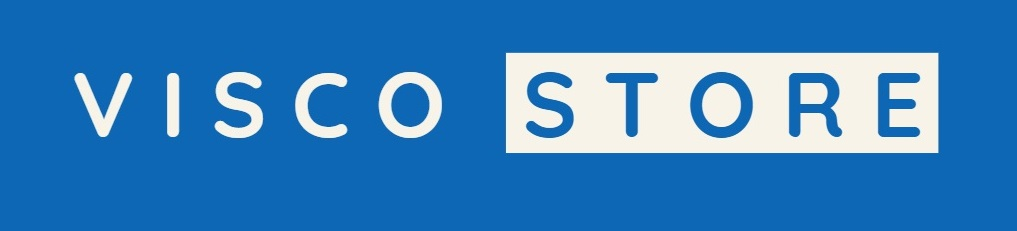
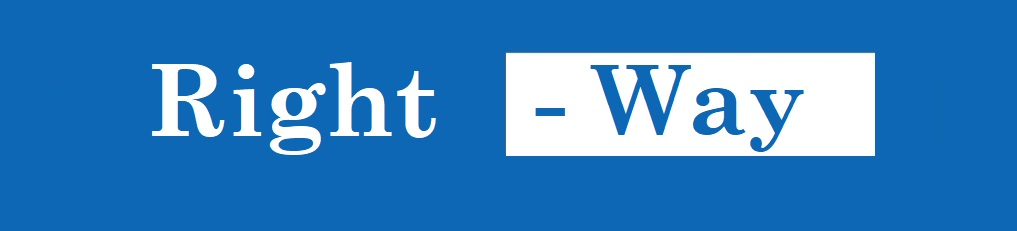
change from ecommerce to coding site

Changed region(s): [[0.4877, 0.2121, 0.9449, 0.697], [0.061, 0.2727, 0.4572, 0.697]]

diff --git a/src/Home.js b/src/Home.js
@@ -1,30 +1,30 @@
 import React from "react";
 import "./Home.css";
 import Product from "./Product";
+import banner from "./images/home_banner.jpg";
+import java from "./images/java-book.png";
+import CTCIB from "./images/ctci.png";
+import Visualization from "./Visualization";
 
 function Home() {
   return (
     <div className="home">
       <div className="home__container">
-        <img
-          className="home__image"
-          src="https://images-eu.ssl-images-amazon.com/images/G/02/digital/video/merch2016/Hero/Covid19/Generic/GWBleedingHero_ENG_COVIDUPDATE__XSite_1500x600_PV_en-GB._CB428684220_.jpg"
-          alt=""
-        />
+        <img className="home__image" src={banner} alt="" />
 
         <div className="home__row">
           <Product
             id="123211341"
             title="the lean startup"
             price={29.99}
-            image="https://images-na.ssl-images-amazon.com/images/I/51Zymoq7UnL._AC_SY400_.jpg"
+            image={java}
             rating={4}
           />
           <Product
             id="123211341"
             title="the lean startup"
             price={29.99}
-            image="https://images-na.ssl-images-amazon.com/images/I/51Zymoq7UnL._AC_SY400_.jpg"
+            image={CTCIB}
             rating={4}
           />
           <Product
@@ -43,10 +43,12 @@ function Home() {
           />
         </div>
 
+        <Visualization />
+
         <div className="home__row">
           <Product
             id="4903850"
-            title="Samsung LC49RG90SSUXEN 49' Curved LED Gaming Monitor"
+            title="Samsung 49' Curved LED Gaming Monitor"
             price={199.99}
             rating={3}
             image="https://images-na.ssl-images-amazon.com/images/I/71Swqqe7XAL._AC_SX466_.jpg"
@@ -60,7 +62,7 @@ function Home() {
           />
           <Product
             id="4903850"
-            title="Samsung LC49RG90SSUXEN 49' Curved LED Gaming Monitor"
+            title="Samsung 49' Curved LED Gaming Monitor"
             price={199.99}
             rating={3}
             image="https://images-na.ssl-images-amazon.com/images/I/71Swqqe7XAL._AC_SX466_.jpg"
@@ -84,35 +86,35 @@ function Home() {
         <div className="home__row">
           <Product
             id="90829332"
-            title="Samsung LC49RG90SSUXEN 49' Curved LED Gaming Monitor - Super Ultra Wide Dual WQHD 5120 x 1440"
+            title="Samsung 49' Curved LED Gaming Monitor"
             price={1094.98}
             rating={3}
             image="https://images-na.ssl-images-amazon.com/images/I/6125mFrzr6L._AC_SX355_.jpg"
           />
           <Product
             id="90829332"
-            title="Samsung LC49RG90SSUXEN 49' Curved LED Gaming Monitor - Super Ultra Wide Dual WQHD 5120 x 1440"
+            title="Samsung 49' Curved LED Gaming Monitor"
             price={1094.98}
             rating={3}
             image="https://images-na.ssl-images-amazon.com/images/I/6125mFrzr6L._AC_SX355_.jpg"
           />
           <Product
             id="90829332"
-            title="Samsung LC49RG90SSUXEN 49' Curved LED Gaming Monitor - Super Ultra Wide Dual WQHD 5120 x 1440"
+            title="Samsung 49' Curved LED Gaming Monitor"
             price={1094.98}
             rating={3}
             image="https://images-na.ssl-images-amazon.com/images/I/6125mFrzr6L._AC_SX355_.jpg"
           />
           <Product
             id="90829332"
-            title="Samsung LC49RG90SSUXEN 49' Curved LED Gaming Monitor - Super Ultra Wide Dual WQHD 5120 x 1440"
+            title="Samsung 49' Curved LED Gaming Monitor"
             price={1094.98}
             rating={3}
             image="https://images-na.ssl-images-amazon.com/images/I/6125mFrzr6L._AC_SX355_.jpg"
           />
           <Product
             id="90829332"
-            title="Samsung LC49RG90SSUXEN 49' Curved LED Gaming Monitor - Super Ultra Wide Dual WQHD 5120 x 1440"
+            title="Samsung 49' Curved LED Gaming Monitor"
             price={1094.98}
             rating={3}
             image="https://images-na.ssl-images-amazon.com/images/I/6125mFrzr6L._AC_SX355_.jpg"

diff --git a/src/Product2.js b/src/Product2.js
@@ -1,8 +1,8 @@
 import React from "react";
-import "./Product.css";
+import "./Product2.css";
 import { useStateValue } from "./StateProvider";
 
-function Product({ id, title, image, price, rating }) {
+function Product2({ id, title, image, price, rating }) {
   const [{ basket }, dispatch] = useStateValue();
 
   const addToInterested = () => {
@@ -11,29 +11,16 @@ function Product({ id, title, image, price, rating }) {
     dispatch({
       type: "ADD_TO_INTERESTED",
       item: {
-        id: id,
         title: title,
         image: image,
-        price: price,
         rating: rating,
       },
     });
   };
   return (
-    <div className="product">
-      <div className="product__info">
+    <div className="product2">
+      <div className="product2__info">
         <p>{title}</p>
-        <p className="product__price">
-          <small>$</small>
-          <strong>{price}</strong>
-        </p>
-        <div className="product__rating">
-          {Array(rating)
-            .fill()
-            .map((_, i) => (
-              <p>⭐</p>
-            ))}
-        </div>
       </div>
       <img src={image} alt="" />
       <button onClick={addToInterested}>Add to Interested</button>
@@ -41,4 +28,4 @@ function Product({ id, title, image, price, rating }) {
   );
 }
 
-export default Product;
+export default Product2;

diff --git a/src/Header.js b/src/Header.js
@@ -1,7 +1,7 @@
 import React from "react";
 import "./Header.css";
 import SearchIcon from "@material-ui/icons/Search";
-import ShoppingBasketIcon from "@material-ui/icons/ShoppingBasket";
+import InterestsIcon from "@material-ui/icons/Favorite";
 import { Link } from "react-router-dom";
 import { useStateValue } from "./StateProvider";
 import { auth } from "./firebase";
@@ -42,13 +42,13 @@ function Header() {
           <span className="header__optionLineTwo">& Orders</span>
         </div>
         <div className="header__option">
-          <span className="header__optionLineOne">Your</span>
-          <span className="header__optionLineTwo">Prime</span>
+          <span className="header__optionLineOne">Helpful</span>
+          <span className="header__optionLineTwo">Blogs</span>
         </div>
 
         <Link to="/checkout">
           <div className="header__optionBasket">
-            <ShoppingBasketIcon />
+            <InterestsIcon />
             <span
               className="header__optionLineTwo
             header__basketCount"

diff --git a/src/Checkout.js b/src/Checkout.js
@@ -3,20 +3,17 @@ import "./Checkout.css";
 import Subtotal from "./Subtotal";
 import { useStateValue } from "./StateProvider";
 import CheckoutProduct from "./CheckoutProduct";
+import image from "./images/1.jpg";
 
 function Checkout() {
   const [{ basket, user }, dispatch] = useStateValue();
   return (
     <div className="checkout">
       <div className="checkout__left">
-        <img
-          className="checkout__ad"
-          src="https://images-na.ssl-images-amazon.com/images/G/02/UK_CCMP/TM/OCC_Amazon1._CB423492668_.jpg"
-          alt=""
-        />
+        <img className="checkout__ad" src={image} alt="" />
         <div>
           <h3>Hello, {user?.email}</h3>
-          <h2 className="checkout__title">Your Shopping Basket</h2>
+          <h2 className="checkout__title">Your Interested Basket</h2>
 
           {basket.map((item) => (
             <CheckoutProduct

diff --git a/src/Product2.css b/src/Product2.css
@@ -1,0 +1,42 @@
+.product2 {
+    display: flex;
+    flex-direction: column;
+    align-items: center;
+    justify-content: flex-end;
+    margin: 10px;
+    padding: 20px;
+    width: 100%;
+    max-height: 400px;
+    min-width: 100px;
+    background-color: white;
+    z-index: 1;
+  }
+  
+  .product2__rating {
+    display: flex;
+  }
+  
+  .product2 > img {
+    max-height: 200px;
+    width: 100%;
+    object-fit: contain;
+    margin-bottom: 15px;
+  }
+  
+  .product2 > button {
+    background: #6495ED;
+    border: 1px solid;
+    margin-top: 10px;
+    border-color: #6495ED #6495ED #6495ED;
+    color: #ffffff;
+  }
+  
+  .product2__price {
+    margin-top: 5px;
+  }
+  
+  .product2__info {
+    height: 100px;
+    margin-bottom: 15px;
+  }
+  

diff --git a/src/CheckoutProduct.js b/src/CheckoutProduct.js
@@ -5,10 +5,10 @@ import { useStateValue } from "./StateProvider";
 function CheckoutProduct({ id, image, title, price, rating }) {
   const [{ basket }, dispatch] = useStateValue();
 
-  const removeFromBasket = () => {
+  const removeFromInterested = () => {
     //remove the item from the basket
     dispatch({
-      type: "REMOVE_FROM_BASKET",
+      type: "REMOVE_FROM_INTERESTED",
       id: id,
     });
   };
@@ -28,7 +28,7 @@ function CheckoutProduct({ id, image, title, price, rating }) {
               <p>⭐</p>
             ))}
         </div>
-        <button onClick={removeFromBasket}>Remove from Basket</button>
+        <button onClick={removeFromInterested}>Remove from Interested</button>
       </div>
     </div>
   );

diff --git a/src/App.js b/src/App.js
@@ -37,9 +37,17 @@ function App() {
     // BEM
     <BrowserRouter>
       <div className="app">
-        <Header />
+        {/* <Header /> */}
         <Routes>
-          <Route path="/" element={<Home />}></Route>
+          <Route
+            path="/"
+            element={
+              <>
+                <Header />
+                <Home />
+              </>
+            }
+          ></Route>
           <Route path="/checkout" element={<Checkout />}></Route>
           <Route path="/payment" element={<Payment />}></Route>
           <Route path="/login" element={<Login />}></Route>

diff --git a/src/Visualization.js b/src/Visualization.js
@@ -1,0 +1,16 @@
+import React from "react";
+import sorting from "./images/sorting.png";
+import pathfinding from "./images/path visual.jpg";
+import Product2 from "./Product2";
+import "./Visualization.css";
+
+const Visualization = () => {
+  return (
+    <div className="visualize__row">
+      <Product2 title="Sorting Visualizer" image={sorting} />
+      <Product2 title="Path Finding Visualizer" image={pathfinding} />
+    </div>
+  );
+};
+
+export default Visualization;

diff --git a/src/Header.css b/src/Header.css
@@ -2,7 +2,7 @@
   height: 60px;
   display: flex;
   align-items: center;
-  background-color: #0d67b5;
+  background-color: #6495ED;
   position: sticky;
   top: 0;
   z-index: 100;
@@ -32,7 +32,7 @@
 .header__searchIcon {
   padding: 5px;
   height: 22px !important;
-  background-color: #0d67b5;
+  background-color: #6495ED;
 }
 
 .header__optionLineOne {

diff --git a/src/Subtotal.css b/src/Subtotal.css
@@ -20,12 +20,12 @@
 }
 
 .subtotal > button {
-  background: #0d67b5;
+  background: #6495ED;
   border-radius: 2px;
   width: 100%;
   height: 30px;
   border: 1px solid;
   margin-top: 10px;
-  border-color: #0d67b5 #0d67b5 #0d67b5;
+  border-color: #6495ED #6495ED #6495ED;
   color: #ffffff;
 }

diff --git a/src/Visualization.css b/src/Visualization.css
@@ -1,0 +1,15 @@
+.visualize {
+    display: flex;
+    justify-content: center;
+    margin-left: auto;
+    margin-right: auto;
+    max-width: 150px;
+  }
+  
+  
+  .visualize__row {
+    display: flex;
+    z-index: 1;
+    margin-left: 1px;
+    margin-right: 5px;
+  }

diff --git a/src/Product.css b/src/Product.css
@@ -24,10 +24,10 @@
 }
 
 .product > button {
-  background: #0d67b5;
+  background: #6495ED;
   border: 1px solid;
   margin-top: 10px;
-  border-color: #0d67b5 #0d67b5 #0d67b5;
+  border-color: #6495ED #6495ED #6495ED;
   color: #ffffff;
 }
 
